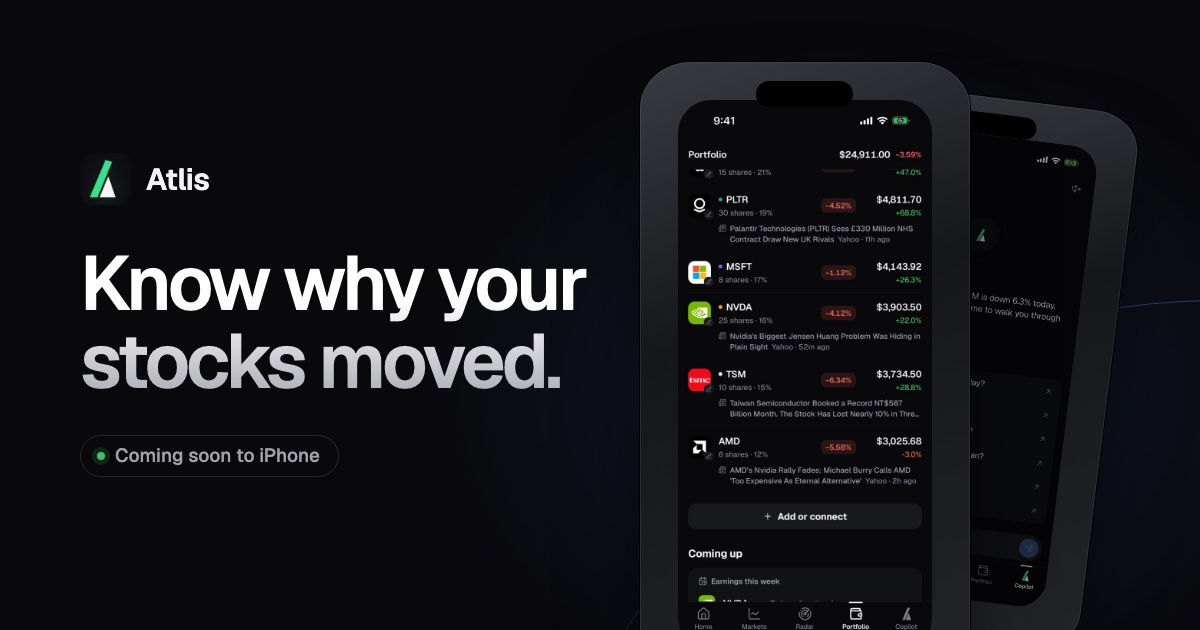
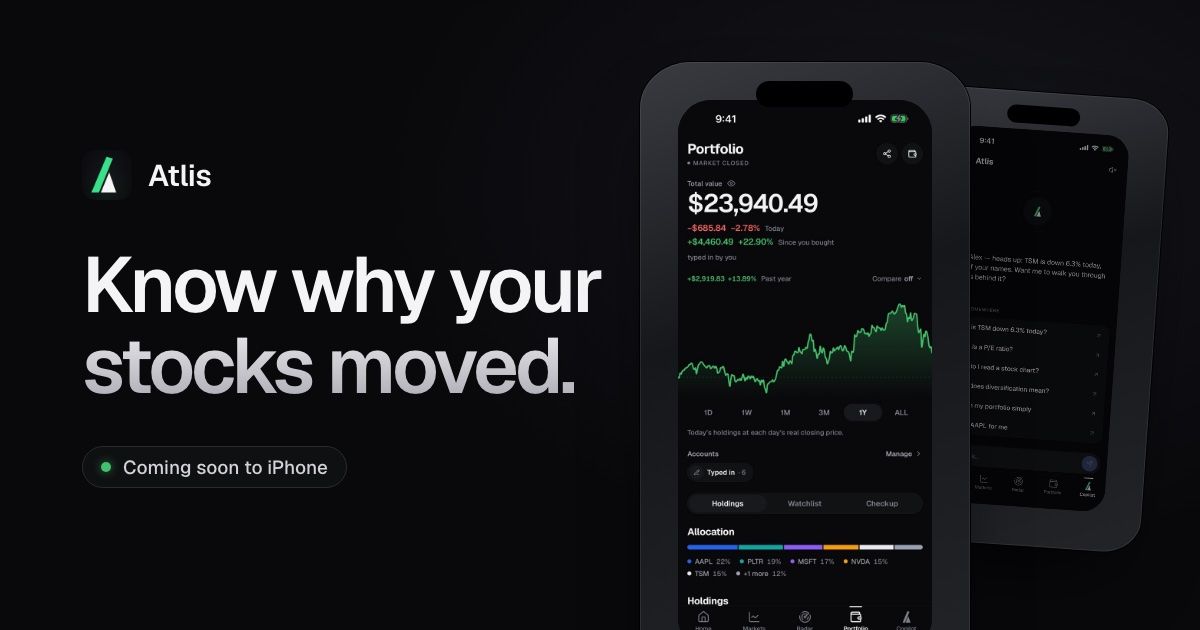
Hero shows the example portfolio's 1-year rise; new share card

diff --git a/index.html b/index.html
@@ -16,7 +16,7 @@
 <meta name="theme-color" content="#09090B" />
 <link rel="icon" href="./assets/icon-256.png" />
 <link rel="apple-touch-icon" href="./assets/apple-touch-icon.png" />
-<link rel="preload" href="./assets/screen-why.jpg" as="image" />
+<link rel="preload" href="./assets/screen-portfolio.jpg" as="image" />
 <script>document.documentElement.classList.add('js');</script>
 <style>
   @font-face { font-family: Geist; font-weight: 400; font-display: swap; src: url('./assets/Geist-Regular.ttf'); }
@@ -191,9 +191,9 @@
     <div class="stage" id="stage" aria-hidden="true">
       <div class="slot l"><div class="rise"><div class="phone"><img src="./assets/screen-stock.jpg" alt="" width="662" height="1440" /></div></div></div>
       <div class="slot r"><div class="rise"><div class="phone"><img src="./assets/screen-copilot.jpg" alt="" width="662" height="1440" /></div></div></div>
-      <div class="slot c"><div class="rise"><div class="phone"><img src="./assets/screen-why.jpg" alt="" width="662" height="1440" /></div></div></div>
+      <div class="slot c"><div class="rise"><div class="phone"><img src="./assets/screen-portfolio.jpg" alt="" width="662" height="1440" /></div></div></div>
     </div>
-    <p class="hero-caption">Real screens from the app · example portfolio · prices from Nov 16, 2026</p>
+    <p class="hero-caption">Real screens from the app · example portfolio · prices from Nov 16 and 19, 2026</p>
   </section>
 
   <div class="wrap">
@@ -214,7 +214,7 @@
           <p class="lede">Today's move, your gain since you bought, and every holding, live.</p>
         </div>
         <div class="panel reveal">
-          <div class="panel-phone"><div class="phone"><img src="./assets/screen-portfolio.jpg" alt="Atlis portfolio screen showing total value, today's change and gain since bought, with a one-month chart" width="662" height="1440" loading="lazy" /></div></div>
+          <div class="panel-phone"><div class="phone"><img src="./assets/screen-portfolio.jpg" alt="Atlis portfolio screen showing total value, today's change and gain since bought, with a one-year chart" width="662" height="1440" loading="lazy" /></div></div>
         </div>
       </section>
 
